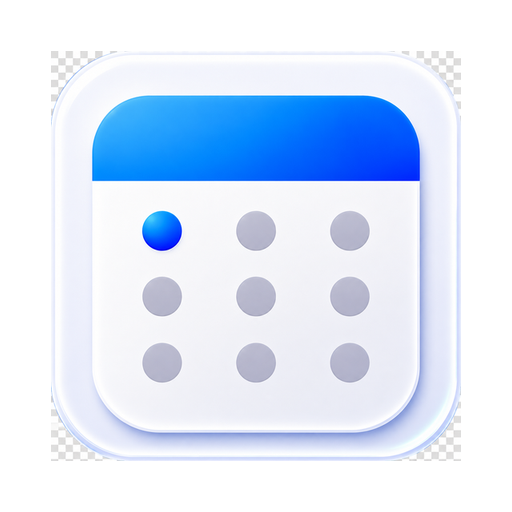
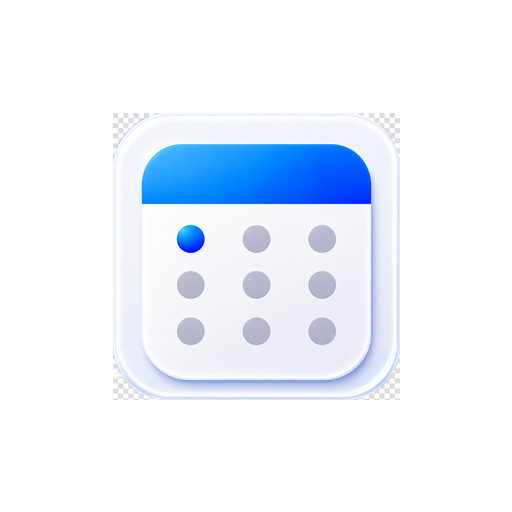
Temas (Corporativo/Blossom), paleta de cores nova e ícone menor
- Tema 'blossom' vira "Corporativo": claro, branco + azul marinho, sóbrio
- Tema 'rose' passa a exibir o nome "Blossom" (só o rótulo)
- Nova paleta de cores dos compromissos (tons suaves da referência) +
  dois cinzas (Chumbo escuro p/ tema dark e Cinza neutro)
- Ícone do app menor e centralizado (foreground 0.60) para não cortar na
  tela inicial; maskable do PWA reduzido p/ caber na zona de segurança

Changed region(s): [[0.0938, 0.0938, 0.9062, 0.9062], [0.0938, 0.0938, 0.2188, 0.2188]]

diff --git a/src/index.css b/src/index.css
@@ -120,87 +120,68 @@ button {
   --resumo-prova-bg: #3c2a33;
 }
 
-/* ---- Tema Blossom (feminino, cream + blush) ---------------------------- */
+/* ---- Tema Corporativo (branco + azul marinho, sóbrio) ------------------ */
+/* Nota: mantém o id interno 'blossom' por compatibilidade com preferências já
+   salvas; o nome exibido é "Corporativo". Paleta clara, limpa e profissional. */
 :root[data-theme='blossom'] {
   color-scheme: light;
 
-  --cor-bg: #fdfbf8;
-  --cor-superficie: #fffefd;
-  --cor-superficie2: #f3efea;
+  --cor-bg: #f4f6f9;
+  --cor-superficie: #ffffff;
+  --cor-superficie2: #eef2f7;
 
-  --cor-primaria: #2e2a28;
-  --cor-primariaSuave: #4a4441;
+  --cor-primaria: #14263f;
+  --cor-primariaSuave: #24405f;
 
-  --cor-acento: #e58c8c;
-  --cor-acentoForte: #d97a7a;
-  --cor-acentoClaro: #f0b3b3;
-  --cor-acentoBg: #f8ece9;
+  --cor-acento: #1f4e79;
+  --cor-acentoForte: #17395c;
+  --cor-acentoClaro: #4a72a3;
+  --cor-acentoBg: #e8eef5;
+  --cor-acentoTexto: #ffffff;
 
-  --cor-texto: #2e2a28;
-  --cor-textoSuave: #6f6a66;
-  --cor-textoApagado: #bdafa7;
-  --cor-textoFraco: #cfcac4;
+  --cor-texto: #14263f;
+  --cor-textoSuave: #5a6b82;
+  --cor-textoApagado: #8b98ac;
+  --cor-textoFraco: #b7c1d1;
 
-  --cor-borda: #f1ece7;
-  --cor-bordaForte: #e5ddd5;
-  --cor-pontinho: #d8ccc4;
-  --cor-grade: #f1ece7;
+  --cor-borda: #e2e8f0;
+  --cor-bordaForte: #cdd7e3;
+  --cor-pontinho: #b0bccb;
+  --cor-grade: #e2e8f0;
 
-  --cor-perigo: #d98c8c;
-  --cor-sucesso: #9bb89a;
+  --cor-perigo: #c0492e;
+  --cor-sucesso: #2f7d5a;
 
-  /* Categorias — cor (suave/dessaturada) */
-  --cat-estudo-cor: #e7c8bc;
-  --cat-simulado-cor: #f3b2b0;
-  --cat-prova-cor: #d9c5b6;
-  --cat-aula-cor: #b8c5d6;
-  --cat-evento-cor: #c6d3be;
-  --cat-revisao-cor: #cdbbd4;
-  --cat-meta-cor: #bfd3b8;
+  /* Cards superiores (resumo) — círculos azul marinho, ícone branco */
+  --resumo-estudo-icone: #ffffff;
+  --resumo-estudo-bg: #1f4e79;
+  --resumo-simulado-icone: #ffffff;
+  --resumo-simulado-bg: #1f4e79;
+  --resumo-prova-icone: #ffffff;
+  --resumo-prova-bg: #1f4e79;
+  --resumo-num-cor: #14263f;
 
-  /* Categorias — fundo dos badges/tags (tom quente muito claro) */
-  --cat-estudo-bg: #f6ece7;
-  --cat-simulado-bg: #fbeceb;
-  --cat-prova-bg: #f3ede5;
-  --cat-aula-bg: #ecf0f5;
-  --cat-evento-bg: #eef3ea;
-  --cat-revisao-bg: #f2eef5;
-  --cat-meta-bg: #eef4ec;
+  /* Badges de período — ícone marinho sobre fundo azul bem claro */
+  --periodo-manha-icone: #1f4e79;
+  --periodo-manha-bg: #e8eef5;
+  --periodo-tarde-icone: #1f4e79;
+  --periodo-tarde-bg: #e8eef5;
+  --periodo-noite-icone: #1f4e79;
+  --periodo-noite-bg: #e8eef5;
+  --periodo-madrugada-icone: #4a72a3;
+  --periodo-madrugada-bg: #e8eef5;
 
-  /* Cards superiores (resumo) */
-  --resumo-estudo-icone: #c9b7ac;
-  --resumo-estudo-bg: #f4ece6;
-  --resumo-simulado-icone: #f2b4b1;
-  --resumo-simulado-bg: #faebe9;
-  --resumo-prova-icone: #d4c1b4;
-  --resumo-prova-bg: #f3ece4;
-  --resumo-num-cor: #2e2a28;
+  /* Dia selecionado: círculo azul marinho, número branco */
+  --dia-sel-bg: #1f4e79;
+  --dia-sel-texto: #ffffff;
 
-  /* Badges de período */
-  --periodo-manha-icone: #f3b2b0;
-  --periodo-manha-bg: #fbeceb;
-  --periodo-tarde-icone: #f3b2b0;
-  --periodo-tarde-bg: #fbeceb;
-  --periodo-noite-icone: #d4c1b4;
-  --periodo-noite-bg: #f3ece4;
-  --periodo-madrugada-icone: #b8c5d6;
-  --periodo-madrugada-bg: #ecf0f5;
+  /* Horários da agenda em tom escuro (não colorido) */
+  --hora-cor: #14263f;
 
-  /* Dia selecionado: círculo blush claro com número escuro (assinatura Blossom) */
-  --dia-sel-bg: #f6ece7;
-  --dia-sel-texto: #2e2a28;
-
-  /* Texto dos eventos na célula e horários: suave/escuro em vez de colorido */
-  --evento-cel-cor: #6f6a66;
-  --hora-cor: #2e2a28;
-
-  /* Título do mês: serifado, elegante */
-  --fonte-titulo: 'Cormorant Garamond', Georgia, 'Times New Roman', serif;
-
-  /* Aviso de feriado (neutro quente) */
-  --feriado-bg: #f3efea;
-  --feriado-texto: #8a7d76;
-  --feriado-borda: #e5ddd5;
+  /* Aviso de feriado (azul sóbrio) */
+  --feriado-bg: #e8eef5;
+  --feriado-texto: #1f4e79;
+  --feriado-borda: #cdd7e3;
 }
 
 /* Aba Objetivos no escuro: as cores de categoria dos "Próximos eventos" ficam

diff --git a/src/lib/coresCategoria.js b/src/lib/coresCategoria.js
@@ -1,16 +1,19 @@
-// Paleta das etiquetas (categorias criadas pelo usuário). Só tons terrosos e
-// dessaturados, para combinar com a identidade do app — nada de neon, rosa
-// choque ou amarelo canário. Servem apenas como identificação visual discreta.
+// Paleta das etiquetas (categorias criadas pelo usuário). Tons pastel suaves e
+// harmônicos (inspirados numa paleta "soft") para identificar os compromissos
+// sem pesar no visual. Inclui dois cinzas — um bem escuro (aparece no tema
+// escuro/preto) e um cinza neutro.
 
 export const CORES_CATEGORIA = [
-  { id: 'marrom', nome: 'Marrom café', hex: '#8c6a43' },
-  { id: 'petroleo', nome: 'Azul petróleo', hex: '#35576b' },
-  { id: 'oliva', nome: 'Verde oliva', hex: '#4c5d38' },
-  { id: 'terracota', nome: 'Terracota', hex: '#b0563c' },
-  { id: 'dourado', nome: 'Dourado fosco', hex: '#bf9540' },
-  { id: 'teal', nome: 'Verde petróleo', hex: '#2f6b6b' },
-  { id: 'vinho', nome: 'Vinho escuro', hex: '#7c3143' },
-  { id: 'grafite', nome: 'Grafite', hex: '#5b6472' },
+  { id: 'sage', nome: 'Verde sálvia', hex: '#9dae6b' },
+  { id: 'sereno', nome: 'Azul sereno', hex: '#8db3b4' },
+  { id: 'ambar', nome: 'Âmbar', hex: '#edb94e' },
+  { id: 'terracota', nome: 'Terracota', hex: '#e38c5a' },
+  { id: 'coral', nome: 'Coral', hex: '#e17e8b' },
+  { id: 'malva', nome: 'Malva', hex: '#a98cb2' },
+  { id: 'aco', nome: 'Azul aço', hex: '#5f7b98' },
+  { id: 'areia', nome: 'Areia', hex: '#cdbba0' },
+  { id: 'chumbo', nome: 'Chumbo', hex: '#454b54' },
+  { id: 'cinza', nome: 'Cinza', hex: '#9096a0' },
 ];
 
 export const COR_PADRAO = CORES_CATEGORIA[0].hex;

diff --git a/src/screens/Mais.jsx b/src/screens/Mais.jsx
@@ -21,12 +21,12 @@ import { cores, sombra, sombraSuave, sombraForte, raio, raioGrande, raioPequeno 
 const TEMAS = [
   { id: 'light', nome: 'Padrão', desc: 'Tema claro', bg: '#f6f9fd', superficie: '#ffffff', acento: '#2563eb' },
   { id: 'dark', nome: 'Escuro', desc: 'Tema escuro', bg: '#0d1926', superficie: '#1e2c40', acento: '#3b82f6' },
-  { id: 'blossom', nome: 'Blossom', desc: 'Toque de cor', bg: '#fdfbf8', superficie: '#f3efea', acento: '#e58c8c' },
+  { id: 'blossom', nome: 'Corporativo', desc: 'Branco e azul marinho', bg: '#f4f6f9', superficie: '#eef2f7', acento: '#1f4e79' },
   { id: 'black', nome: 'Black', desc: 'Preto absoluto', bg: '#000000', superficie: '#1a1a1a', acento: '#d0d0d0' },
   { id: 'natureza', nome: 'Natureza', desc: 'Verde floresta', bg: '#f6f4ee', superficie: '#e8ede3', acento: '#2f6b3d' },
   { id: 'musgo', nome: 'Musgo', desc: 'Verde musgo', bg: '#f4f3ee', superficie: '#e8ecdd', acento: '#5f7238' },
   { id: 'oceano', nome: 'Oceano', desc: 'Azul vintage', bg: '#eff3f4', superficie: '#e0ebee', acento: '#488399' },
-  { id: 'rose', nome: 'Rosé', desc: 'Coral suave', bg: '#fbf2f1', superficie: '#f7e3e3', acento: '#d97b7b' },
+  { id: 'rose', nome: 'Blossom', desc: 'Coral suave', bg: '#fbf2f1', superficie: '#f7e3e3', acento: '#d97b7b' },
   { id: 'areia', nome: 'Areia', desc: 'Bege dourado', bg: '#f7f2e9', superficie: '#f0e7d5', acento: '#b79b6f' },
 ];
 

diff --git a/src/lib/aparencia.js b/src/lib/aparencia.js
@@ -1,5 +1,6 @@
-// Tema de aparência: 'light' (Padrão), 'dark' (Escuro), 'blossom' (feminino),
-// 'black' (preto absoluto, monocromático premium) ou 'natureza' (verde floresta).
+// Tema de aparência: 'light' (Padrão), 'dark' (Escuro), 'blossom' (Corporativo —
+// branco + azul marinho; id mantido por compatibilidade), 'black' (preto
+// absoluto), 'natureza' (verde floresta), 'rose' (exibido como "Blossom"), etc.
 // Guardado no localStorage e aplicado como data-theme na raiz — o CSS faz o resto.
 
 const CHAVE = 'calendario.tema';
